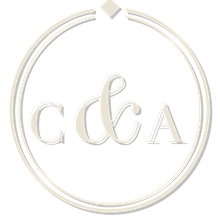
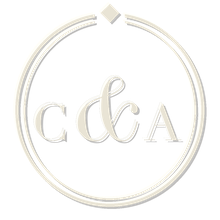
A plate for the Saloon door, and the seal's diamond made whole
The seating tool now prints the plan as engraved stationery: The
Tables in script, each table shown as its two sides divided by a
rule standing for the table itself, so a guest reads which side to
take. A4 landscape, ink only, drawn from whatever arrangement is
current so nothing is transcribed by hand.

The apex diamond on the embossed seal was clipped: its centre sits
on the ring at 0.034 of the height with a radius of 0.045, putting
its point above the canvas. The design is now inset, and the point
comes to a proper apex.

diff --git a/seating-plan.html b/seating-plan.html
@@ -124,8 +124,55 @@
   .plan-bar button.ghost { background: transparent; color: var(--ink); }
   .plan-msg { margin: 12px 0 0; font-style: italic; font-size: 13.5px; color: var(--muted); min-height: 1.2em; }
 
+
+  /* The plate for the Saloon door: the plan as engraved stationery */
+  .plate { display: none; }
+  body.show-plate .plan-wrap { display: none; }
+  body.show-plate .plate { display: block; }
+  .plate-sheet {
+    width: 29.7cm; min-height: 21cm; margin: 30px auto; padding: 2cm 2.4cm 1.8cm;
+    background: var(--paper); color: var(--ink); position: relative; text-align: center;
+    box-shadow: 0 16px 44px rgba(0,0,0,.22);
+  }
+  .plate-sheet::before {
+    content: ""; position: absolute; inset: 1.1cm;
+    border: 0.6pt solid rgba(29,26,22,.4); pointer-events: none;
+  }
+  .plate-title {
+    font-family: "Snell Roundhand", "Edwardian Script ITC", "Apple Chancery", cursive;
+    font-size: 42pt; line-height: 1.05; margin: 0;
+  }
+  .plate-orn { margin: 16pt auto 0; width: 96pt; display: flex; align-items: center; gap: 8pt; }
+  .plate-orn::before, .plate-orn::after { content: ""; flex: 1; height: 0.6pt; background: var(--ink); opacity: .3; }
+  .plate-orn span { width: 4pt; height: 4pt; background: var(--ink); opacity: .65; transform: rotate(45deg); }
+  .plate-tables { display: flex; justify-content: center; gap: 2.4cm; margin-top: 22pt; }
+  .plate-table h3 {
+    font-family: var(--sc); font-weight: 400; font-size: 13.5pt;
+    letter-spacing: .12em; text-indent: .12em; margin: 0 0 12pt;
+  }
+  .plate-sides { display: flex; align-items: stretch; }
+  .plate-side { width: 5cm; padding: 0 0.35cm; }
+  .plate-rule {                       /* the table itself, seen from above */
+    width: 0.34cm; align-self: stretch; margin: 2pt 0;
+    border-left: 0.6pt solid rgba(29,26,22,.5);
+    border-right: 0.6pt solid rgba(29,26,22,.5);
+    background: rgba(29,26,22,.03);
+  }
+  .plate-side p { margin: 0; font-style: italic; font-size: 12.5pt; line-height: 1.7; white-space: nowrap; }
+  .plate-mark {
+    font-family: var(--sc); font-size: 9.5pt; letter-spacing: .3em; text-indent: .3em;
+    color: var(--muted); margin: 30pt 0 0;
+  }
+  .plate-note { font-style: italic; font-size: 13px; color: var(--muted); text-align: center; margin: 0 0 26px; }
+
   @media print {
     .tray, .tray-label, .panel, .plan-bar, .nav, body::after, .plan-sub, .count-tabs { display: none !important; }
+    body.show-plate .plate-note { display: none; }
+    body.show-plate .plate-sheet {
+      margin: 0; box-shadow: none; background: none;   /* the paper supplies the ground */
+      width: auto; min-height: 0;
+    }
+    @page { size: A4 landscape; margin: 0; }
     .plan-wrap { padding-top: 20px; }
     .room { gap: 40px; }
     .print-context { display: block; }
@@ -270,11 +317,23 @@
   <div class="room-ends"><p class="end-label">The door</p></div>
 
   <div class="plan-bar">
-    <button id="share">Copy link to this plan</button>
+    <button id="plate-btn">The printed plate</button>
+    <button id="share" class="ghost">Copy link to this plan</button>
     <button id="clear" class="ghost">Clear all seats</button>
     <p class="plan-msg" id="msg"></p>
   </div>
 </main>
+
+<div class="plate" id="plate">
+  <p class="plate-note">This is the plate for the Saloon door. Print at 100% on A4,
+  background graphics off, and the paper carries the ground.</p>
+  <div class="plate-sheet">
+    <p class="plate-title">The Tables</p>
+    <div class="plate-orn"><span></span></div>
+    <div class="plate-tables" id="plate-tables"></div>
+    <p class="plate-mark">C &amp; A</p>
+  </div>
+</div>
 
 <div class="panel" id="panel" hidden>
   <p class="panel-name" id="p-name"></p>
@@ -677,6 +736,50 @@
   });
   layoutTabs.forEach(function (b) {
     b.addEventListener("click", function () { setScenario(guestCount, parseInt(b.dataset.l, 10)); });
+  });
+
+  // ── the printed plate ──
+  function renderPlate() {
+    var host = document.getElementById("plate-tables");
+    host.innerHTML = "";
+    for (var tt = 0; tt < layoutTables; tt++) {
+      var block = document.createElement("div");
+      block.className = "plate-table";
+      var h = document.createElement("h3");
+      h.textContent = layoutTables === 1 ? "The Long Table" : (tt === 0 ? "Table One" : "Table Two");
+      block.appendChild(h);
+
+      var sides = document.createElement("div");
+      sides.className = "plate-sides";
+      var per = sideAt(tt), start = tableStart(tt), total = seatsAt(tt);
+      var left = document.createElement("div"); left.className = "plate-side";
+      var bar = document.createElement("div"); bar.className = "plate-rule";
+      var right = document.createElement("div"); right.className = "plate-side";
+      var any = false;
+      for (var s = 0; s < total; s++) {
+        var g = seats[start + s];
+        if (g === null) continue;
+        any = true;
+        var line = document.createElement("p");
+        line.textContent = guestName(g);
+        (s < per ? left : right).appendChild(line);
+      }
+      if (!any) {
+        var none = document.createElement("p");
+        none.textContent = "no one seated yet";
+        left.appendChild(none);
+      }
+      sides.appendChild(left); sides.appendChild(bar); sides.appendChild(right);
+      block.appendChild(sides);
+      host.appendChild(block);
+    }
+  }
+
+  var plateBtn = document.getElementById("plate-btn");
+  plateBtn.addEventListener("click", function () {
+    var showing = document.body.classList.toggle("show-plate");
+    if (showing) { renderPlate(); window.scrollTo(0, 0); }
+    plateBtn.textContent = showing ? "Back to the plan" : "The printed plate";
   });
 
   restore();

diff --git a/tools/build_seals.py b/tools/build_seals.py
@@ -104,41 +104,47 @@ def ampersand(S=320):
 
 
 def emboss_seal(S=480, date_band=False):
-    """Blind-emboss variant: paper-coloured seal with baked light/shadow."""
+    """Blind-emboss variant: paper-coloured seal with baked light/shadow.
+
+    The design is inset by P so the apex diamond, which straddles the top of
+    the ring, and the offset highlight both stay inside the canvas.
+    """
+    P = int(S * 0.03)
     H = int(S * 1.14) if date_band else S
-    mask = Image.new("L", (S, H), 0)
+    W, HH = S + 2 * P, H + 2 * P
+    mask = Image.new("L", (W, HH), 0)
     d = ImageDraw.Draw(mask)
     m = S * 0.045
-    d.ellipse([m, m * 0.75, S - m, S - m * 0.75], outline=255, width=max(1, S // 60))
+    d.ellipse([P + m, P + m * 0.75, P + S - m, P + S - m * 0.75], outline=255, width=max(1, S // 60))
     m2 = S * 0.085
-    d.ellipse([m2, m2 * 0.78, S - m2, S - m2 * 0.78], outline=255, width=max(1, S // 110))
-    r = S * 0.045; cy = m * 0.75
-    mask.paste(0, (int(S / 2 - r * 1.6), int(cy - r * 1.4), int(S / 2 + r * 1.6), int(cy + r * 1.4)))
-    d.polygon([(S / 2, cy - r), (S / 2 + r, cy), (S / 2, cy + r), (S / 2 - r, cy)], fill=255)
+    d.ellipse([P + m2, P + m2 * 0.78, P + S - m2, P + S - m2 * 0.78], outline=255, width=max(1, S // 110))
+    r = S * 0.045; cy = P + m * 0.75
+    mask.paste(0, (int(P + S / 2 - r * 1.6), int(cy - r * 1.4), int(P + S / 2 + r * 1.6), int(cy + r * 1.4)))
+    d.polygon([(P + S / 2, cy - r), (P + S / 2 + r, cy), (P + S / 2, cy + r), (P + S / 2 - r, cy)], fill=255)
     lf = ImageFont.truetype(DID, int(S * 0.24), 0)
     af = ImageFont.truetype(DID, int(S * 0.42), 1)
-    y = S * 0.645
-    for text, font, cx in [("&", af, S / 2), ("C", lf, S * C_X), ("A", lf, S * A_X)]:
+    y = P + S * 0.645
+    for text, font, cx in [("&", af, P + S / 2), ("C", lf, P + S * C_X), ("A", lf, P + S * A_X)]:
         b = d.textbbox((0, 0), text, font=font)
         asc = font.getmetrics()[0]
         d.text((cx - (b[2] - b[0]) / 2 - b[0], y - asc), text, font=font, fill=255)
     if date_band:
         df = ImageFont.truetype(DID, int(S * 0.052), 0)
-        text = "XIV · AUG · MMXXVI"
+        text = "XIV \u00b7 AUG \u00b7 MMXXVI"
         widths = [d.textlength(c, font=df) for c in text]
         total = sum(widths) + S * 0.018 * (len(text) - 1)
-        x = S / 2 - total / 2
+        x = P + S / 2 - total / 2
         for c, w in zip(text, widths):
-            d.text((x, S * 1.035), c, font=df, fill=230)
+            d.text((x, P + S * 1.035), c, font=df, fill=230)
             x += w + S * 0.018
-    out = Image.new("RGBA", (S, H), CLEAR)
+    out = Image.new("RGBA", (W, HH), CLEAR)
     sh = max(2, S // 110)
-    dark = Image.new("RGBA", (S, H), (29, 26, 22, 70))
-    light = Image.new("RGBA", (S, H), (255, 253, 246, 190))
-    body = Image.new("RGBA", (S, H), (233, 228, 213, 255))
-    shifted = Image.new("L", (S, H), 0); shifted.paste(mask, (sh, sh))
+    dark = Image.new("RGBA", (W, HH), (29, 26, 22, 70))
+    light = Image.new("RGBA", (W, HH), (255, 253, 246, 190))
+    body = Image.new("RGBA", (W, HH), (233, 228, 213, 255))
+    shifted = Image.new("L", (W, HH), 0); shifted.paste(mask, (sh, sh))
     out.paste(dark, (0, 0), shifted)
-    shifted = Image.new("L", (S, H), 0); shifted.paste(mask, (-sh, -sh))
+    shifted = Image.new("L", (W, HH), 0); shifted.paste(mask, (-sh, -sh))
     out.paste(light, (0, 0), shifted)
     out.paste(body, (0, 0), mask)
     return out
